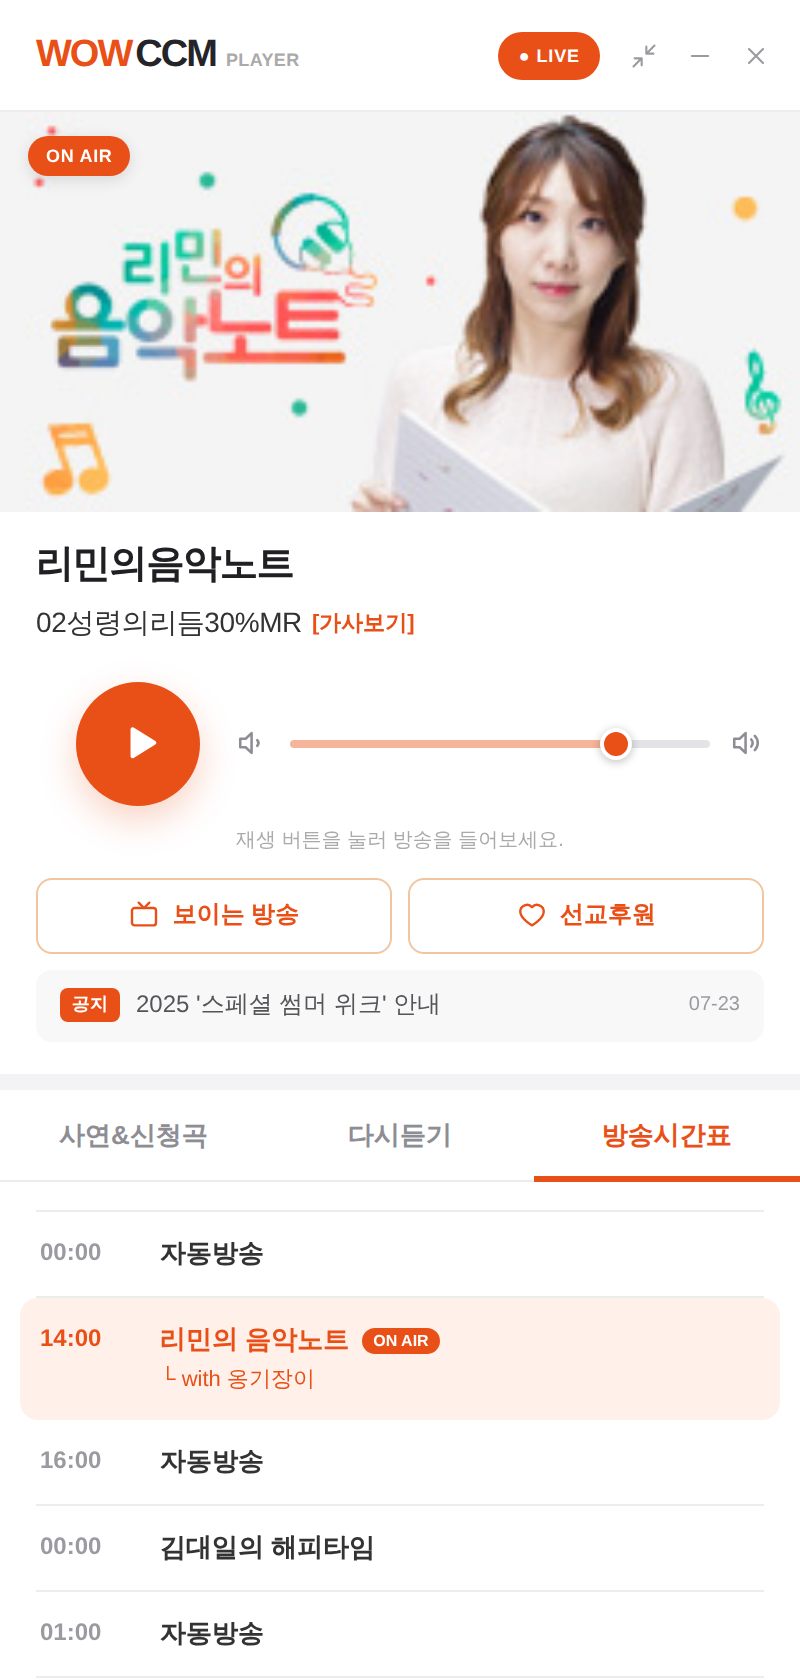
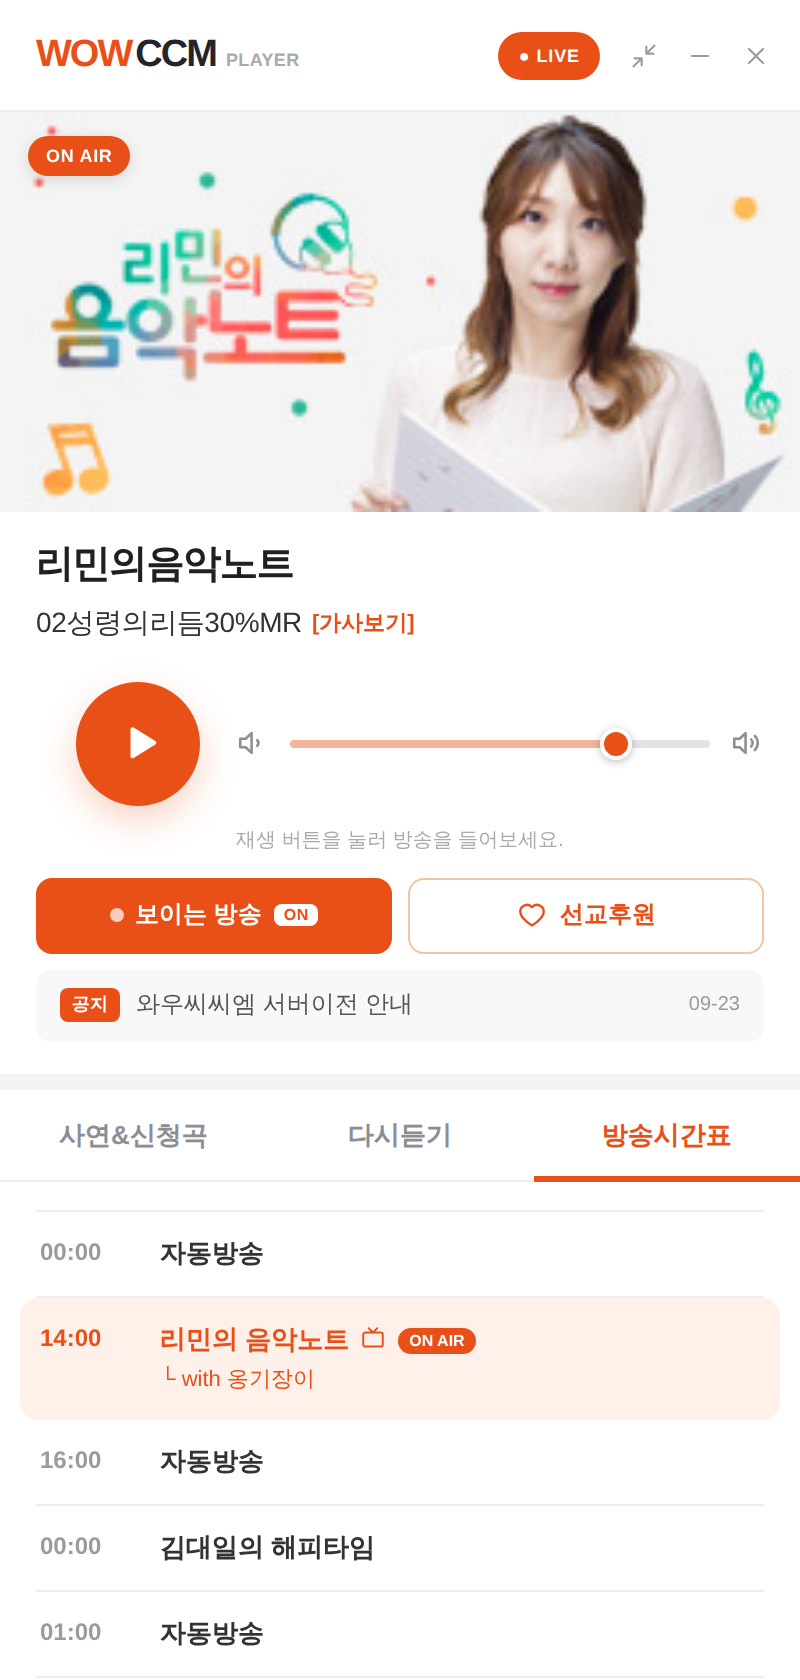
보이는 방송 버튼: 유튜브 라이브 중일 때만 주황색으로 표시
- 채널 /live 페이지의 isLiveNow로 라이브 여부를 2분마다 확인 (예약 방송은 제외)
- 라이브 중 누르면 해당 영상으로 바로 이동
- 유튜브 확인 실패 시 편성표의 보이는 방송 표시 + ON AIR로 대신 판단
- 방송시간표에 보이는 방송 아이콘 표시

Claude-Session: https://claude.ai/code/session_018gPLBYPafc4p3ZkZAQycUv

Changed region(s): [[0.0312, 0.4952, 0.5625, 0.619], [0.4375, 0.7738, 0.5938, 0.8048]]

diff --git a/src/lib/api.test.ts b/src/lib/api.test.ts
@@ -13,11 +13,11 @@ describe("kstMinutes", () => {
 
 describe("markOnAir", () => {
   const rows = [
-    { time: "00:00", title: "자동방송", sub: "" },
-    { time: "14:00", title: "리민의 음악노트", sub: "with 옹기장이" },
-    { time: "16:00", title: "자동방송", sub: "" },
-    { time: "00:00", title: "김대일의 해피타임", sub: "" }, // 다음 날
-    { time: "01:00", title: "자동방송", sub: "" },
+    { time: "00:00", title: "자동방송", sub: "", visible: false },
+    { time: "14:00", title: "리민의 음악노트", sub: "with 옹기장이", visible: true },
+    { time: "16:00", title: "자동방송", sub: "", visible: false },
+    { time: "00:00", title: "김대일의 해피타임", sub: "", visible: false }, // 다음 날
+    { time: "01:00", title: "자동방송", sub: "", visible: false },
   ];
 
   it("지금 진행 중인 방송 하나만 ON AIR", () => {
@@ -60,7 +60,7 @@ describe("parseMiniPage", () => {
     <template id="scheduleTemplate"><dl class="title_list">
       <li class="title_item"><img src="i.gif">&nbsp;&nbsp;00:00&nbsp;&nbsp;<a>자동방송</a></li>
       <li class="title_item"><img src="i.gif">&nbsp;&nbsp;14:00&nbsp;&nbsp;<a>리민의 음악노트</a>
-        <img title="방송중" alt="ON AIR"><div id=guest_name>┗ with 옹기장이</div></li>
+        <img src="/img/video.png" title="보이는 방송"><img title="방송중" alt="ON AIR"><div id=guest_name>┗ with 옹기장이</div></li>
     </dl></template>`;
 
   it("다시듣기와 편성표를 읽는다", () => {
@@ -69,8 +69,8 @@ describe("parseMiniPage", () => {
       { program: "황성대의 캠프파이어", date: "9월 28일 방송", audio: "http://wowccm.synology.me/podcast/camp.mp3" },
     ]);
     expect(r.schedule).toEqual([
-      { time: "00:00", title: "자동방송", sub: "", onair: false },
-      { time: "14:00", title: "리민의 음악노트", sub: "with 옹기장이", onair: true },
+      { time: "00:00", title: "자동방송", sub: "", visible: false, onair: false },
+      { time: "14:00", title: "리민의 음악노트", sub: "with 옹기장이", visible: true, onair: true },
     ]);
   });
 });

diff --git a/src/App.tsx b/src/App.tsx
@@ -1,6 +1,6 @@
 import { useEffect, useState } from "react";
 import { REFRESH, STATION } from "./config";
-import { getDjImage, getMiniPage, getNotices, getProgram, getRequests, getSong } from "./lib/api";
+import { getDjImage, getMiniPage, getNotices, getProgram, getRequests, getSong, getYoutubeLive } from "./lib/api";
 import { usePlayer } from "./lib/usePlayer";
 import { usePolling } from "./lib/usePolling";
 import { useMediaSession } from "./lib/useMediaSession";
@@ -29,6 +29,7 @@ export default function App() {
   const requests = usePolling(getRequests, REFRESH.requests);
   const page = usePolling(getMiniPage, REFRESH.miniPage);
   const notices = usePolling(getNotices, REFRESH.notices);
+  const youtube = usePolling(getYoutubeLive, REFRESH.youtube);
 
   const [tab, setTab] = useState<Tab>("request");
   const [mini, setMini] = useState(false);
@@ -37,6 +38,11 @@ export default function App() {
   const programName = program.data?.program ?? "";
   const onAir = program.data?.onair ?? false;
   const songText = song.data ?? "";
+
+  // 보이는 방송: 유튜브에서 직접 확인한다. 확인이 안 되면 편성표의 📹 표시로 대신 판단한다.
+  const scheduleVisible = page.data?.schedule.some((s) => s.onair && s.visible) ?? false;
+  const visibleLive = youtube.error || !youtube.data ? scheduleVisible : youtube.data.live;
+  const visibleUrl = !youtube.error && youtube.data?.live ? youtube.data.url : null;
 
   useMediaSession(
     programName || "WOWCCM LIVE",
@@ -103,7 +109,7 @@ export default function App() {
       <div className="scroll">
         <Hero image={dj.data ?? null} onAir={onAir} program={programName} song={song.data ?? null} />
         <PlayerControls status={player.status} onToggle={player.toggle} message={player.message} {...vol} />
-        <StationExtras notices={notices.data} />
+        <StationExtras notices={notices.data} visibleLive={visibleLive} visibleUrl={visibleUrl} />
 
         <nav className="tabs" role="tablist">
           {TABS.map((t) => (

diff --git a/src/styles.css b/src/styles.css
@@ -120,6 +120,17 @@ input { font: inherit; color: inherit; }
   font-size: 12px; font-weight: 700; transition: background 0.15s;
 }
 .linkbtn:hover { background: var(--accent-soft); }
+/* 보이는 방송: 평소에는 회색, 유튜브 라이브 중에만 주황색 */
+.linkbtn--off { border-color: #e4e4e8; color: #a3a3aa; }
+.linkbtn--off:hover { background: #f6f6f7; color: #77777e; }
+.linkbtn--live { border-color: var(--accent); background: var(--accent); color: #fff; }
+.linkbtn--live:hover { background: var(--accent-deep); }
+.linkbtn__tag {
+  padding: 1px 5px; border-radius: 4px; background: #fff; color: var(--accent);
+  font-size: 8px; font-weight: 900; letter-spacing: 0.3px;
+}
+.live-dot { width: 7px; height: 7px; border-radius: 50%; background: #fff; animation: live-blink 1.4s ease-in-out infinite; }
+@keyframes live-blink { 50% { opacity: 0.25; } }
 .notice {
   display: flex; align-items: center; gap: 8px; height: 36px; padding: 0 12px; border-radius: 8px;
   background: var(--field); text-align: left; overflow: hidden;
@@ -200,6 +211,7 @@ input { font: inherit; color: inherit; }
 }
 .sch__time { font-size: 12px; font-weight: 700; color: var(--muted); padding-top: 1px; font-variant-numeric: tabular-nums; }
 .sch__title { font-size: 13px; font-weight: 700; color: #333; }
+.sch__video { display: inline-flex; margin-left: 5px; vertical-align: -2px; color: var(--accent); }
 .sch__sub { margin-top: 3px; font-size: 11px; color: var(--accent); }
 .sch.is-onair { margin: 0 -8px; padding: 12px 10px; border-radius: 9px; background: var(--accent-soft); border-bottom-color: transparent; }
 .sch.is-onair .sch__time, .sch.is-onair .sch__title { color: var(--accent); }

diff --git a/src/lib/api.ts b/src/lib/api.ts
@@ -1,5 +1,5 @@
 import { API, STATION } from "../config";
-import { fetchIcyTitle, wowGet, wowPostRequest } from "./tauri";
+import { fetchIcyTitle, wowGet, wowPostRequest, youtubeLive, type YoutubeLive } from "./tauri";
 
 export interface ProgramInfo {
   program: string;
@@ -30,6 +30,8 @@ export interface ScheduleItem {
   time: string;
   title: string;
   sub: string;
+  /** 편성표에 📹(보이는 방송) 표시가 있는 프로그램 */
+  visible: boolean;
   onair: boolean;
 }
 
@@ -134,13 +136,16 @@ export function parseMiniPage(html: string, now = new Date()) {
     .filter((r) => r.audio);
 
   const rows = [...tpl("scheduleTemplate").querySelectorAll(".title_item")].map((li) => {
+    const visible = [...li.querySelectorAll("img")].some(
+      (img) => /video\.png/.test(img.getAttribute("src") ?? "") || img.getAttribute("title") === "보이는 방송",
+    );
     const sub = clean(li.querySelector("#guest_name")?.textContent).replace(/^┗\s*/, "");
     li.querySelector("#guest_name")?.remove();
     const text = clean(li.textContent).replace(/방송중|ON AIR/gi, "").trim();
     const tm = /(\d{1,2}:\d{2})/.exec(text);
     const time = tm ? tm[1].padStart(5, "0") : "";
     const title = clean(time ? text.replace(tm![1], "") : text);
-    return { time, title, sub };
+    return { time, title, sub, visible };
   });
 
   return { recasts, schedule: markOnAir(rows, now) };
@@ -167,3 +172,5 @@ export function parseNotices(xml: string, limit = 5): Notice[] {
 export async function getNotices(): Promise<Notice[]> {
   return parseNotices(await wowGet(API.notices));
 }
+
+export const getYoutubeLive = (): Promise<YoutubeLive> => youtubeLive();

diff --git a/src/components/StationExtras.tsx b/src/components/StationExtras.tsx
@@ -5,7 +5,15 @@ import { openUrl } from "../lib/tauri";
 import { HeartIcon, TvIcon } from "./Icons";
 
 /** 보이는 방송·선교후원 바로가기와 공지 한 줄 */
-export function StationExtras({ notices }: { notices: Notice[] | null }) {
+interface Props {
+  notices: Notice[] | null;
+  /** 보이는 방송(유튜브 라이브) 중인지 */
+  visibleLive: boolean;
+  /** 라이브 중인 영상 주소 (없으면 채널 라이브 주소) */
+  visibleUrl: string | null;
+}
+
+export function StationExtras({ notices, visibleLive, visibleUrl }: Props) {
   const [i, setI] = useState(0);
   const list = notices ?? [];
 
@@ -20,9 +28,14 @@ export function StationExtras({ notices }: { notices: Notice[] | null }) {
   return (
     <section className="extras">
       <div className="extras__links">
-        <button className="linkbtn" onClick={() => openUrl(LINKS.visibleRadio)}>
-          <TvIcon size={16} />
+        <button
+          className={`linkbtn ${visibleLive ? "linkbtn--live" : "linkbtn--off"}`}
+          onClick={() => openUrl(visibleUrl ?? LINKS.visibleRadio)}
+          title={visibleLive ? "지금 보이는 방송 중입니다" : "지금은 보이는 방송이 없습니다"}
+        >
+          {visibleLive ? <span className="live-dot" aria-hidden /> : <TvIcon size={16} />}
           보이는 방송
+          {visibleLive && <span className="linkbtn__tag">ON</span>}
         </button>
         <button className="linkbtn" onClick={() => openUrl(LINKS.support)}>
           <HeartIcon size={16} />

diff --git a/src/components/SchedulePanel.tsx b/src/components/SchedulePanel.tsx
@@ -1,6 +1,7 @@
 import { LINKS } from "../config";
 import type { ScheduleItem } from "../lib/api";
 import { openUrl } from "../lib/tauri";
+import { TvIcon } from "./Icons";
 
 export function SchedulePanel({ items }: { items: ScheduleItem[] | null }) {
   return (
@@ -14,6 +15,11 @@ export function SchedulePanel({ items }: { items: ScheduleItem[] | null }) {
             <div className="sch__info">
               <div className="sch__title">
                 {s.title}
+                {s.visible && (
+                  <span className="sch__video" title="보이는 방송">
+                    <TvIcon size={13} />
+                  </span>
+                )}
                 {s.onair && <span className="badge">ON AIR</span>}
               </div>
               {s.sub && <div className="sch__sub">└ {s.sub}</div>}

diff --git a/src/lib/tauri.ts b/src/lib/tauri.ts
@@ -53,3 +53,18 @@ export function openUrl(url: string) {
   }
   void import("@tauri-apps/plugin-opener").then((m) => m.openUrl(url));
 }
+
+export interface YoutubeLive {
+  live: boolean;
+  url: string | null;
+}
+
+/** 유튜브 채널이 지금 라이브 중인지. 브라우저 미리보기에서는 ?ytlive / ?ytoff 로 상태를 흉내 낸다. */
+export async function youtubeLive(): Promise<YoutubeLive> {
+  if (!isTauri) {
+    if (location.search.includes("ytlive")) return { live: true, url: null };
+    if (location.search.includes("ytoff")) return { live: false, url: null };
+    throw new Error("브라우저에서는 유튜브 상태를 확인할 수 없습니다.");
+  }
+  return invoke<YoutubeLive>("youtube_live");
+}

diff --git a/src/config.ts b/src/config.ts
@@ -31,4 +31,5 @@ export const REFRESH = {
   requests: 10_000,
   miniPage: 10 * 60_000,
   notices: 30 * 60_000,
+  youtube: 2 * 60_000, // 보이는 방송(유튜브 라이브) 확인
 };

diff --git a/src-tauri/src/youtube.rs b/src-tauri/src/youtube.rs
@@ -1,0 +1,110 @@
+//! 유튜브 채널이 지금 라이브(보이는 방송) 중인지 확인한다.
+//! 채널의 /live 주소는 방송 중일 때만 그 영상 페이지를 보여 주고,
+//! 페이지 안에 "isLiveNow":true 가 들어 있다. 예약된 방송(isUpcoming)은 라이브로 보지 않는다.
+
+use serde::Serialize;
+use std::time::Duration;
+
+const CHANNEL_LIVE_URL: &str = "https://www.youtube.com/c/wowccm/live";
+
+#[derive(Serialize, Debug, PartialEq)]
+pub struct LiveStatus {
+    pub live: bool,
+    /// 라이브 중이면 그 영상 주소
+    pub url: Option<String>,
+}
+
+#[tauri::command]
+pub async fn youtube_live() -> Result<LiveStatus, String> {
+    let client = reqwest::Client::builder()
+        .timeout(Duration::from_secs(10))
+        .user_agent(
+            "Mozilla/5.0 (Windows NT 10.0; Win64; x64) AppleWebKit/537.36 \
+             (KHTML, like Gecko) Chrome/126.0 Safari/537.36",
+        )
+        .build()
+        .map_err(|e| e.to_string())?;
+    let res = client
+        .get(CHANNEL_LIVE_URL)
+        .header("Accept-Language", "ko-KR,ko;q=0.9")
+        // 유럽 등에서 뜨는 쿠키 동의 화면을 건너뛴다
+        .header("Cookie", "CONSENT=YES+1; SOCS=CAI")
+        .send()
+        .await
+        .map_err(|e| e.to_string())?;
+    if !res.status().is_success() {
+        return Err(format!("유튜브 응답 오류 ({})", res.status()));
+    }
+    let html = res.text().await.map_err(|e| e.to_string())?;
+    parse_live(&html).ok_or_else(|| "유튜브 페이지를 해석하지 못했습니다".into())
+}
+
+/// 유튜브 페이지가 아닌 것(동의 화면 등)이면 None
+fn parse_live(html: &str) -> Option<LiveStatus> {
+    if !html.contains("ytInitialData") && !html.contains("ytInitialPlayerResponse") {
+        return None;
+    }
+    let watch_url = canonical(html).filter(|u| u.contains("/watch?v="));
+    let live_now = html.contains("\"isLiveNow\":true");
+    Some(match watch_url {
+        Some(url) if live_now => LiveStatus {
+            live: true,
+            url: Some(url),
+        },
+        _ => LiveStatus {
+            live: false,
+            url: None,
+        },
+    })
+}
+
+fn canonical(html: &str) -> Option<String> {
+    let key = "<link rel=\"canonical\" href=\"";
+    let start = html.find(key)? + key.len();
+    let end = html[start..].find('"')?;
+    Some(html[start..start + end].to_string())
+}
+
+#[cfg(test)]
+mod tests {
+    use super::*;
+
+    const PAGE: &str = "<html><script>var ytInitialPlayerResponse = {};</script>";
+
+    #[test]
+    fn live_now() {
+        let html = format!(
+            "{PAGE}<link rel=\"canonical\" href=\"https://www.youtube.com/watch?v=abc123\">\
+             {{\"isLiveNow\":true}}"
+        );
+        assert_eq!(
+            parse_live(&html),
+            Some(LiveStatus {
+                live: true,
+                url: Some("https://www.youtube.com/watch?v=abc123".into())
+            })
+        );
+    }
+
+    #[test]
+    fn upcoming_is_not_live() {
+        let html = format!(
+            "{PAGE}<link rel=\"canonical\" href=\"https://www.youtube.com/watch?v=abc123\">\
+             {{\"isLiveNow\":false,\"isUpcoming\":true}}"
+        );
+        assert!(!parse_live(&html).unwrap().live);
+    }
+
+    #[test]
+    fn channel_page_is_not_live() {
+        let html = format!(
+            "{PAGE}<link rel=\"canonical\" href=\"https://www.youtube.com/channel/UCxyz\">"
+        );
+        assert!(!parse_live(&html).unwrap().live);
+    }
+
+    #[test]
+    fn consent_page_is_unknown() {
+        assert_eq!(parse_live("<html>Before you continue to YouTube</html>"), None);
+    }
+}

diff --git a/src-tauri/src/lib.rs b/src-tauri/src/lib.rs
@@ -1,5 +1,6 @@
 mod now_playing;
 mod wow_api;
+mod youtube;
 
 use tauri::{
     menu::{Menu, MenuItem, PredefinedMenuItem},
@@ -54,6 +55,7 @@ pub fn run() {
             now_playing,
             wow_api::wow_get,
             wow_api::wow_post_request,
+            youtube::youtube_live,
             set_mini_mode,
             hide_to_tray
         ])

diff --git a/README.md b/README.md
@@ -21,6 +21,13 @@
 - **다시듣기.** 누르면 생방송이 멈추고 다시듣기가 재생됩니다. 같은 회차를 다시 누르면 일시정지되고, 한 번 더 누르면 이어 듣습니다.
 - **방송시간표.** 지금 방송 중인 프로그램을 ON AIR로 표시합니다. 해외에서도 **한국 시각** 기준으로 판단합니다.
 - **보이는 방송**(유튜브 라이브)·**선교후원** 바로가기
+  - 보이는 방송 버튼은 **유튜브가 실제로 라이브 중일 때만 주황색**으로 켜지고, 평소에는 회색입니다. 2분마다 자동으로 확인합니다.
+  - 켜져 있을 때 누르면 지금 방송 중인 영상이 바로 열립니다.
+  - 유튜브 확인이 실패하면 편성표의 📹(보이는 방송) 표시와 ON AIR로 대신 판단합니다.
+
+  | 평소 | 보이는 방송 중 |
+  |---|---|
+  | ![꺼짐](docs/visible-off.png) | ![켜짐](docs/visible-on.png) |
 - **공지.** 공지사항 게시판의 최근 글 5개가 한 줄씩 넘어가며, 누르면 해당 글이 열립니다.
 - **미니 모드**와 "항상 위에 표시"
 - **트레이 상주.** 닫기(✕)를 눌러도 트레이/메뉴바에서 계속 재생됩니다.
@@ -40,6 +47,7 @@
 | 사연 등록 | `POST /wowcast/wow_mini_test_v2.php` | JSON |
 | 다시듣기·편성표 | `/wowcast/wow_mini_test_v2.php` 페이지 안의 `<template>` | HTML |
 | 공지 | `/bbs/rss.php?bo_table=news` | RSS |
+| 보이는 방송 여부 | `https://www.youtube.com/c/wowccm/live` (`src-tauri/src/youtube.rs`) | 유튜브 페이지 |
 
 > 지금은 **시험용 페이지(`wow_mini_test_v2.php`)** 에 기대고 있습니다. 이 페이지의 이름이나 구조가 바뀌면 앱도 함께 고쳐야 합니다.
 > 플레이어 전용 JSON 주소(예: `/wowcast/player_api.php`)를 하나 만들어 두면 훨씬 안전합니다.
